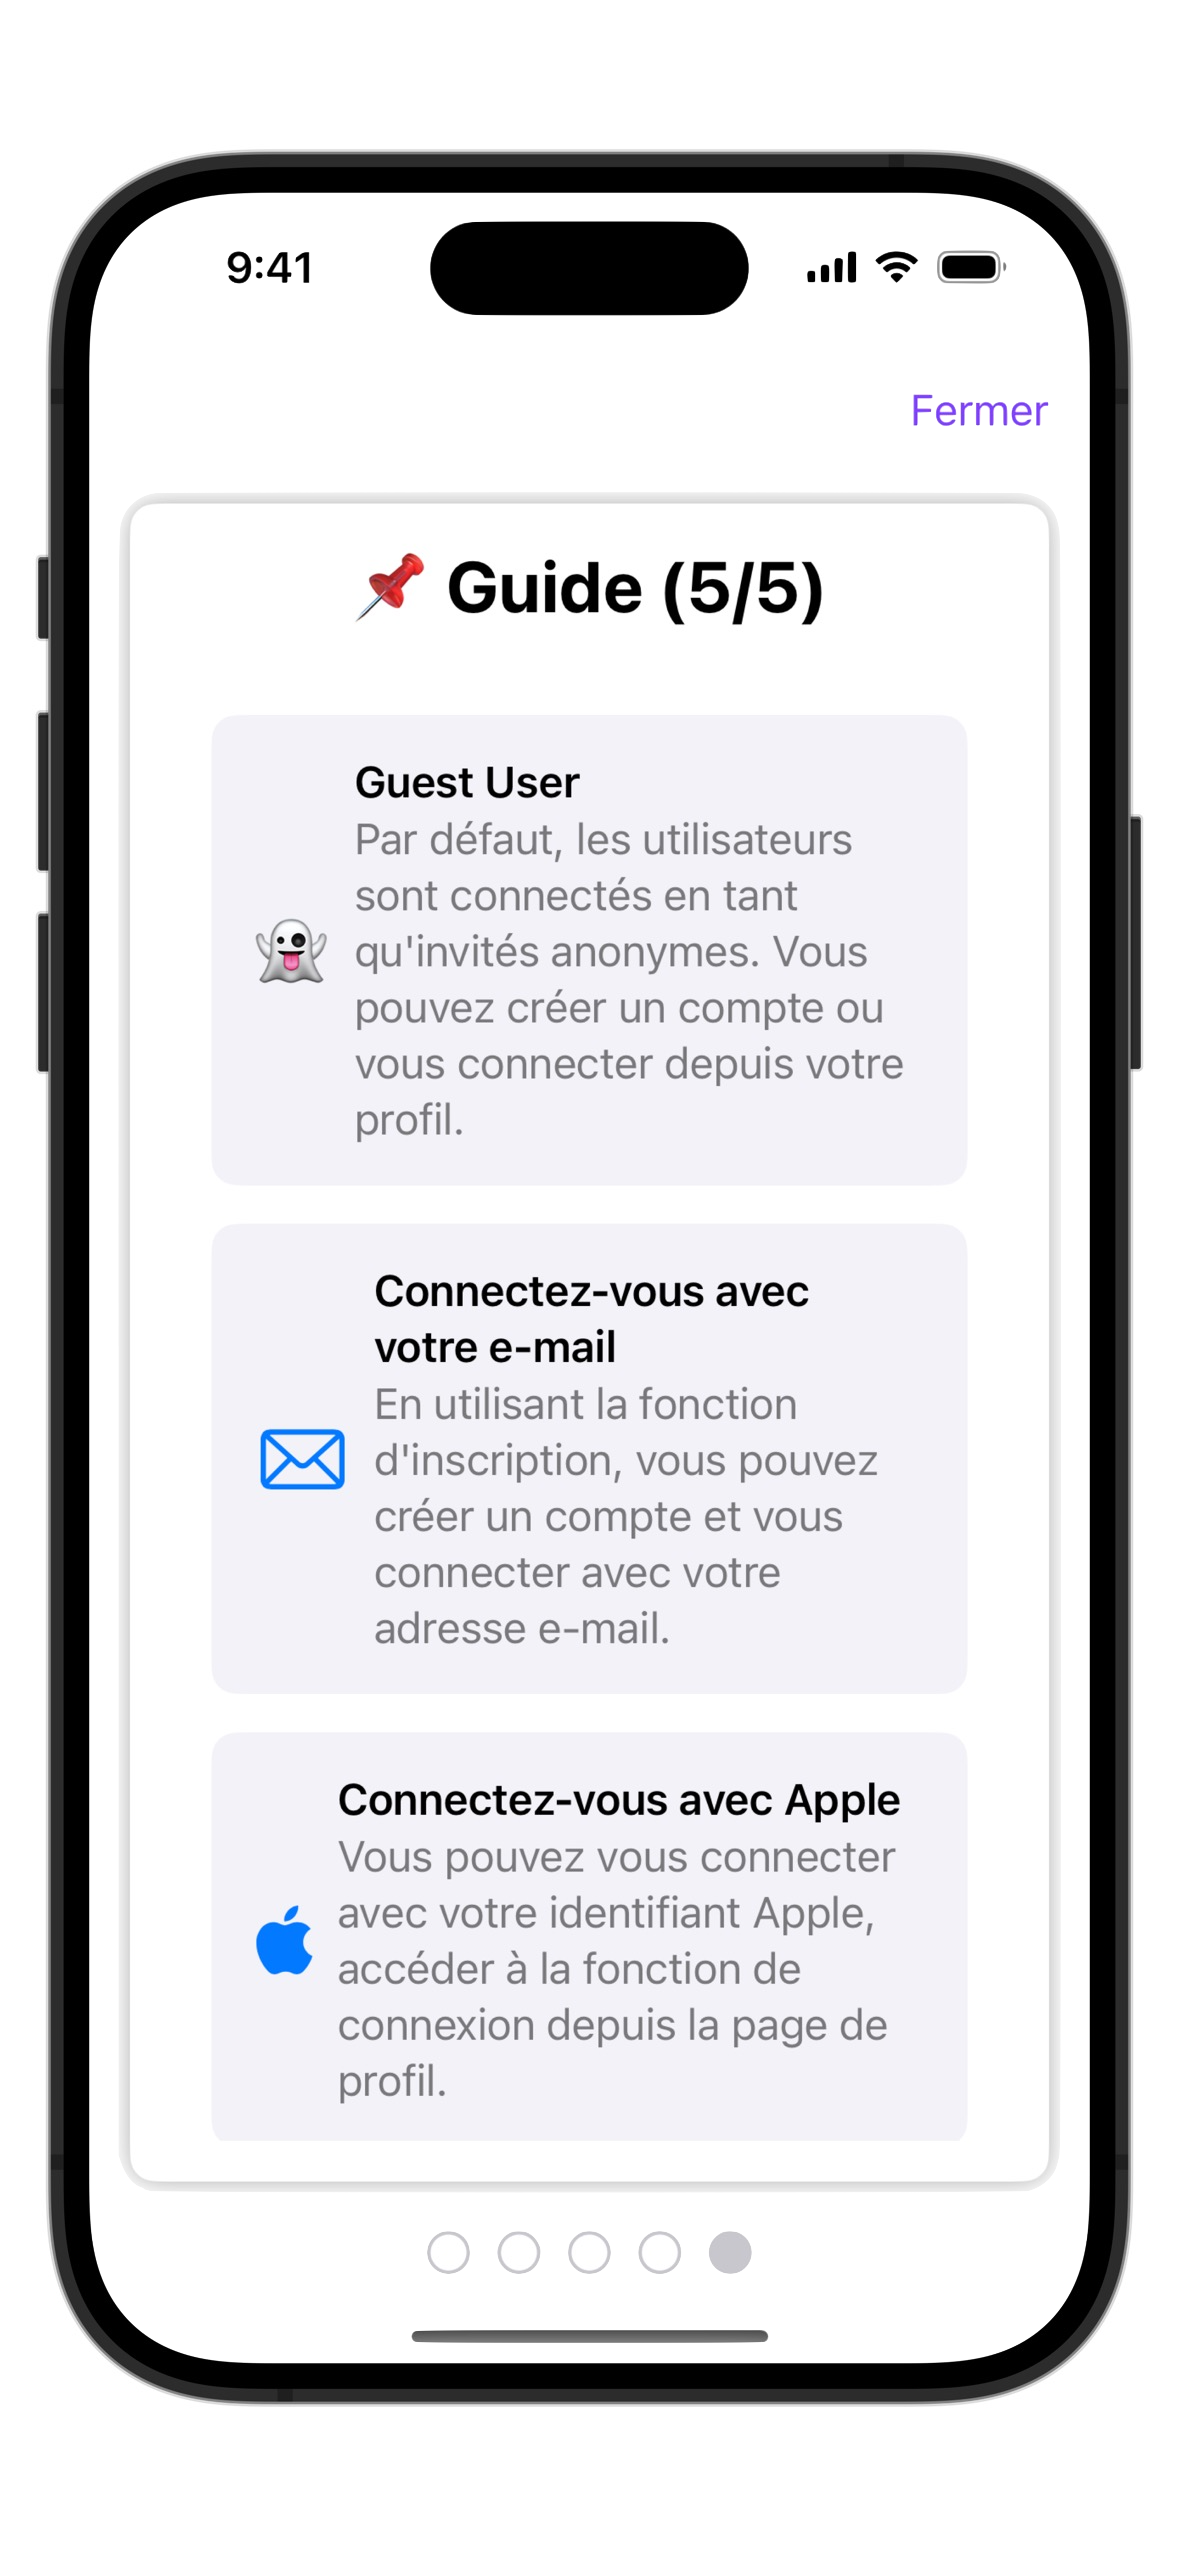
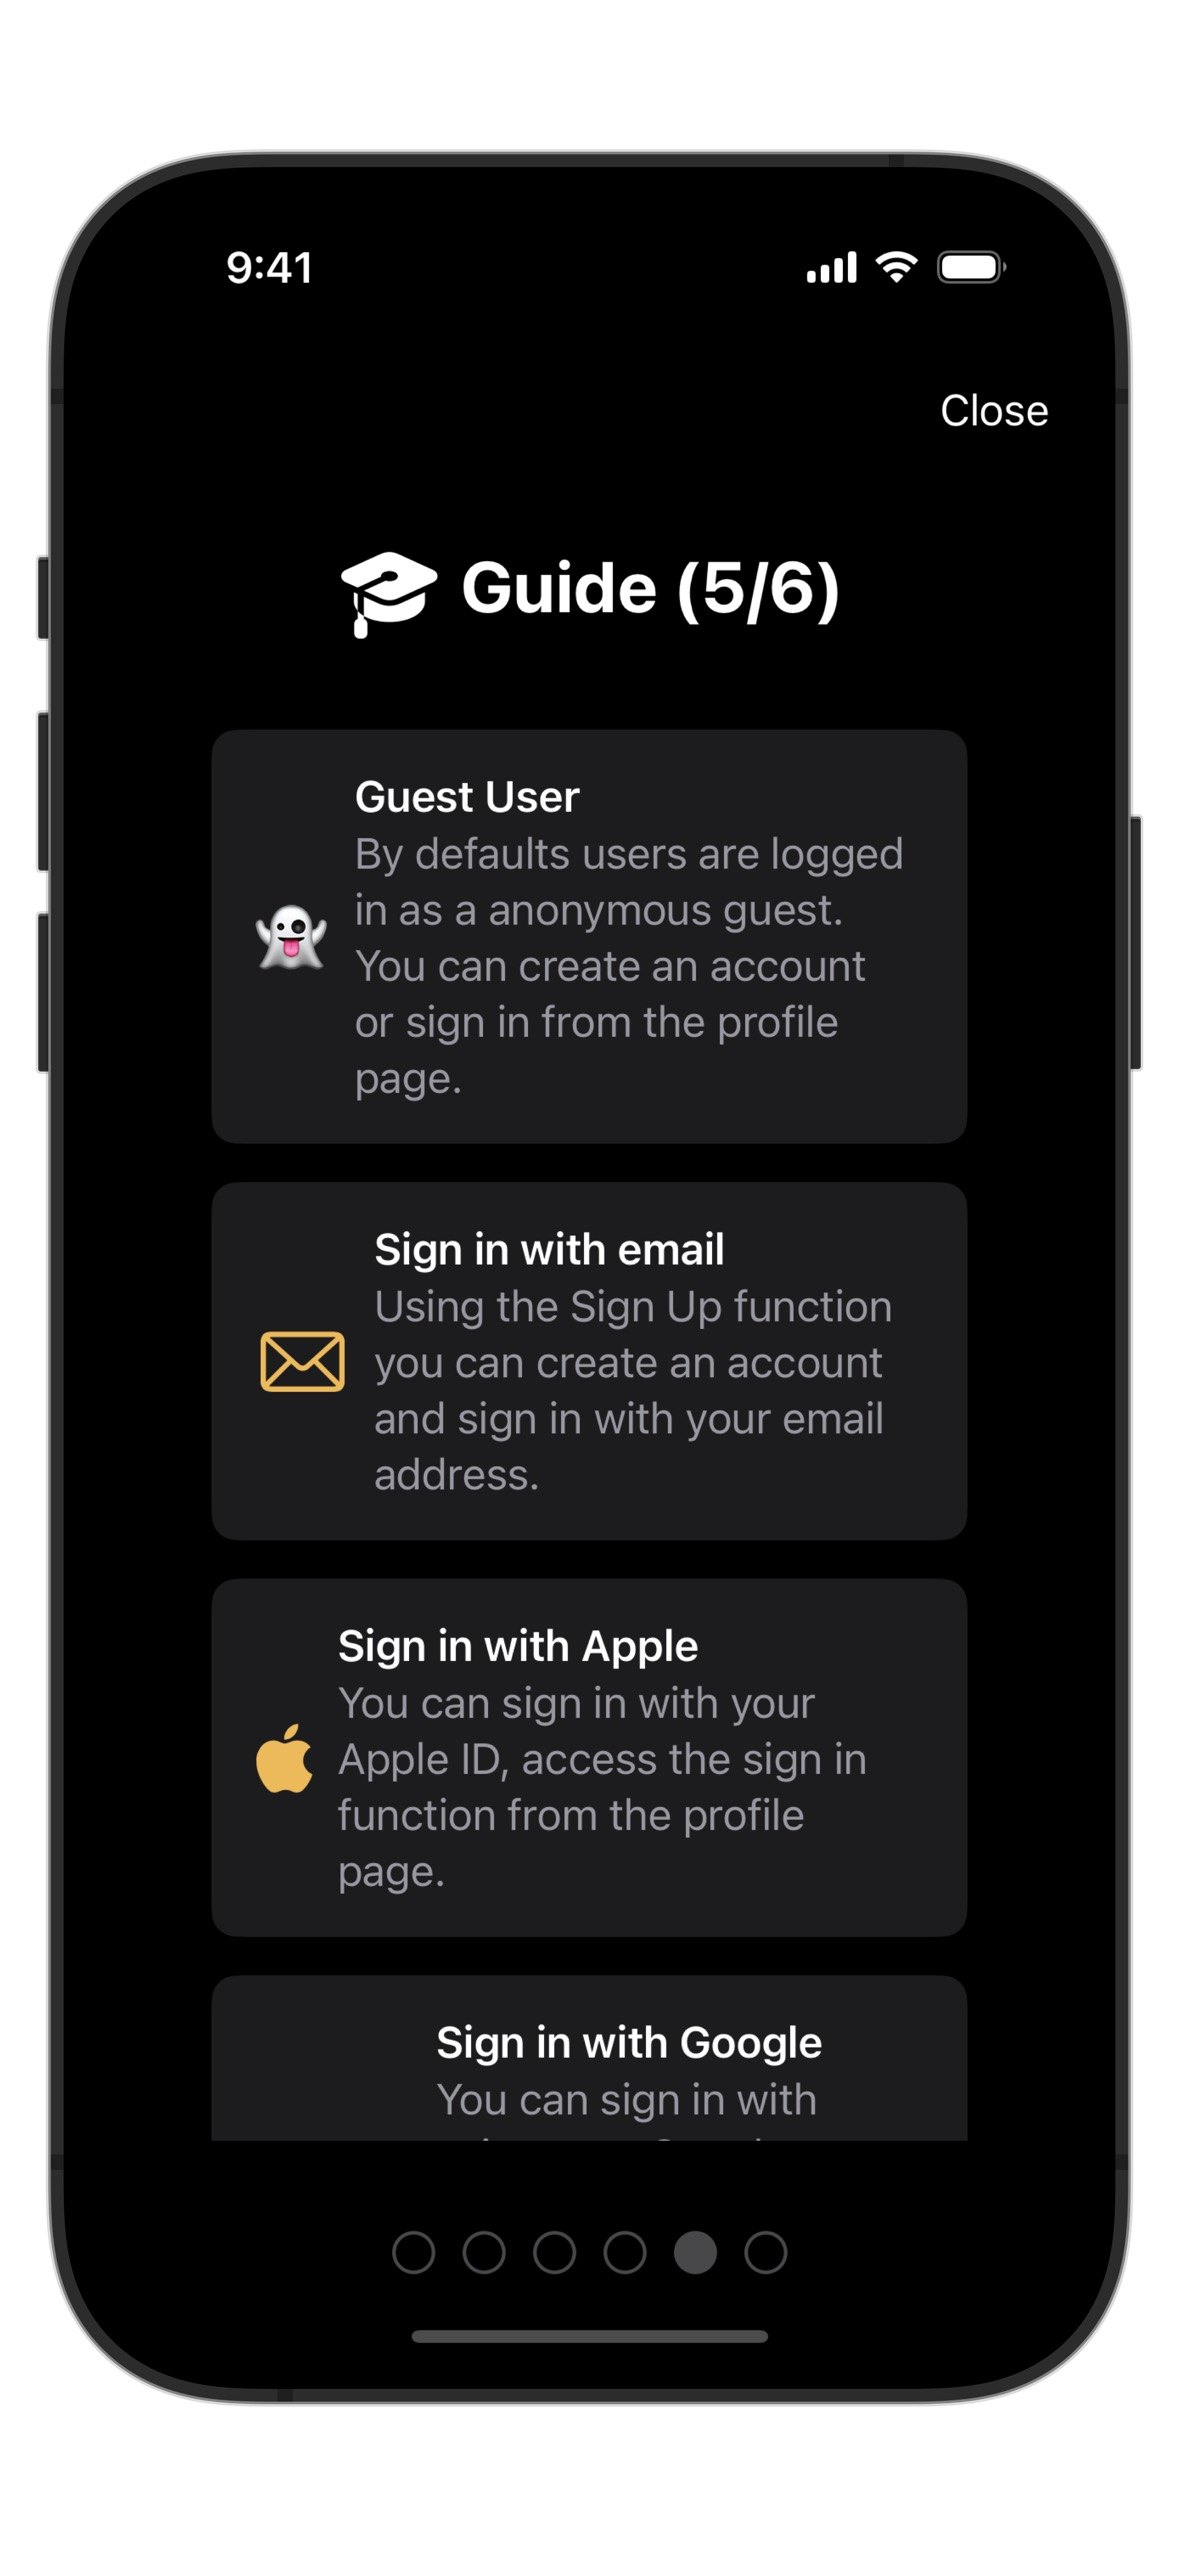
[Feature] Update Guide Images

diff --git a/public/fr-fr/faq/index.html b/public/fr-fr/faq/index.html
@@ -208,6 +208,9 @@ Qui peut accéder au programme bêta ? Tout le monde peut y accéder. Nous nous
     <a href="/images/WelcomeView_Page5.png" target="_blank">
             <img src="/images/WelcomeView_Page5.png" alt="Guide Page 5" class="guide-page">
     </a>
+    <a href="/images/WelcomeView_Page6.png" target="_blank">
+            <img src="/images/WelcomeView_Page6.png" alt="Guide Page 6" class="guide-page">
+    </a>
 </p></p>
 <h3 id="quand-le-système-dexploitation-android-sera-t-il-pris-en-charge">Quand le système d&rsquo;exploitation Android sera-t-il pris en charge ?</h3>
 <p>Nous ne le savons pas encore. Nous allons d&rsquo;abord nous concentrer sur l&rsquo;optimisation de l&rsquo;application pour la plateforme Apple avant de l&rsquo;étendre aux autres plateformes.</p>

diff --git a/public/en-gb/faq/index.html b/public/en-gb/faq/index.html
@@ -209,6 +209,9 @@ Who can have access to the Beta Program? We are welcoming feedback from everyone
     <a href="/images/WelcomeView_Page5.png" target="_blank">
             <img src="/images/WelcomeView_Page5.png" alt="Guide Page 5" class="guide-page">
     </a>
+    <a href="/images/WelcomeView_Page6.png" target="_blank">
+            <img src="/images/WelcomeView_Page6.png" alt="Guide Page 6" class="guide-page">
+    </a>
 </p></p>
 <h3 id="when-will-android-os-be-supported">When will Android OS be supported?</h3>
 <p>At this time we are focussing our efforts on improving the experience on Apple platforms. Once we are satisfied with the user-experience on these platforms we will start looking at migrating it onto Android. We appreciate your patience.</p>

diff --git a/public/faq/index.html b/public/faq/index.html
@@ -209,6 +209,9 @@ Who can have access to the Beta Program? Anyone can have access. We reserve the 
     <a href="/images/WelcomeView_Page5.png" target="_blank">
             <img src="/images/WelcomeView_Page5.png" alt="Guide Page 5" class="guide-page">
     </a>
+    <a href="/images/WelcomeView_Page6.png" target="_blank">
+            <img src="/images/WelcomeView_Page6.png" alt="Guide Page 6" class="guide-page">
+    </a>
 </p></p>
 <h3 id="when-will-android-os-be-supported">When will Android OS be supported?</h3>
 <p>This is not known at this time, what is known is that we will first focus on making the Apple platform application awesome before we extend to other platforms.</p>

diff --git a/layouts/shortcodes/welcome-guide.html b/layouts/shortcodes/welcome-guide.html
@@ -22,4 +22,7 @@
     <a href="/images/WelcomeView_Page5.png" target="_blank">
             <img src="/images/WelcomeView_Page5.png" alt="Guide Page 5" class="guide-page">
     </a>
+    <a href="/images/WelcomeView_Page6.png" target="_blank">
+            <img src="/images/WelcomeView_Page6.png" alt="Guide Page 6" class="guide-page">
+    </a>
 </p>
